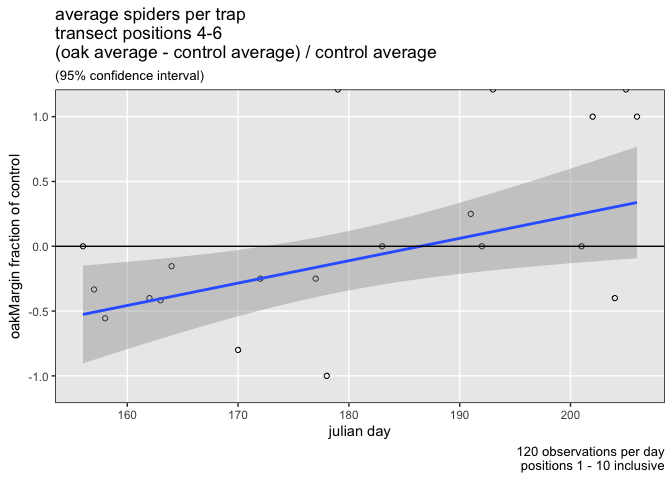
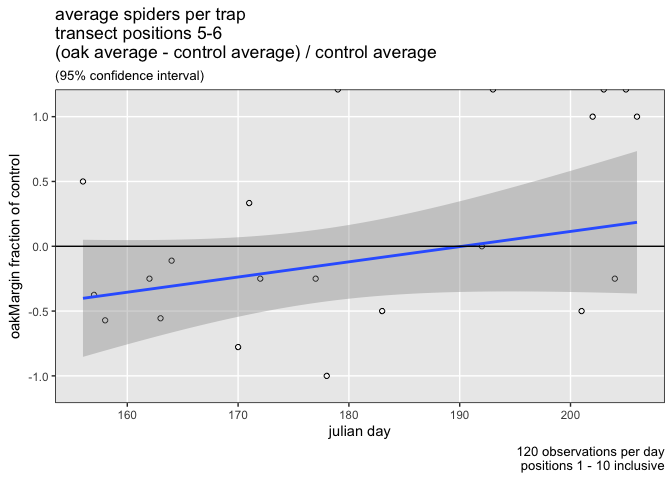
group 1-4

diff --git a/README.md b/README.md
@@ -49,11 +49,11 @@ TO-DO: refine normalization method
 ----------------------------------
 
 ``` r
-positionText <- paste("\ntransect positions ", "1-3", sep="")
+positionText <- paste("\ntransect positions ", "1-4", sep="")
 g3 <- compareTransectUsingQuosure(data=bugs.df, 
                                  species=quo(Thomisidae..crab.spider.), 
                                  operator="LT",
-                                 initialPosition=quo(4), 
+                                 initialPosition=quo(5), 
                                  secondaryPosition=quo(0),
                                  positionText)
 ```
@@ -61,11 +61,11 @@ g3 <- compareTransectUsingQuosure(data=bugs.df,
 ![](ampelos_files/figure-markdown_github/unnamed-chunk-3-1.png)
 
 ``` r
-positionText <- paste("\ntransect positions ", "4-6", sep="")
+positionText <- paste("\ntransect positions ", "5-6", sep="")
 g46 <- compareTransectUsingQuosure(data=bugs.df, 
                                  species=quo(Thomisidae..crab.spider.), 
                                  operator="BETWEEN",
-                                 initialPosition=quo(3), 
+                                 initialPosition=quo(4), 
                                  secondaryPosition=quo(7),
                                  positionText)
 ```
